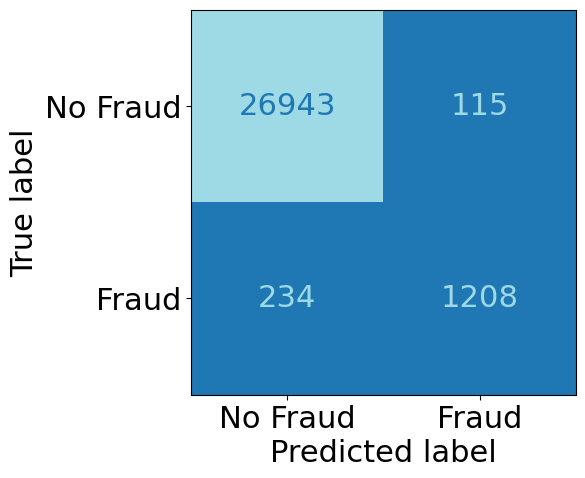
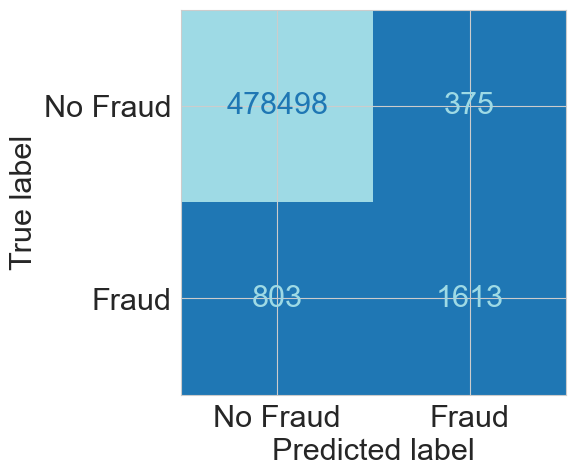
should be everything

diff --git a/myFunctions.py b/myFunctions.py
@@ -23,7 +23,7 @@ from sklearn.tree import DecisionTreeClassifier
 def test_fuction():
     st.write('this is only a test')
 
-def page_header(general_name, model):
+def page_header(general_name, model,**kwargs):
     model_name = type(model).__name__
     st.title(general_name)
     st.header(f'model: {model_name}')
@@ -32,14 +32,16 @@ def page_header(general_name, model):
     # Create the button
     if st.button('Click me to run the model',key='RunCode_button'):
         #dataset = myData()
-        df,X,y = data_cleanup()
-        split_scale_fit(model=model,X=X,y=y,test_size=.3)
-        graph_ROC_AUC(model=model,X=X,y=y,test_size=.3)
+        df = data_cleanup(**kwargs)
+        st.write('This is how the model was set-up:')
+        st.code(model)
+        split_scale_fit(model=model,df=df,**kwargs)
+        graph_ROC_AUC(model=model,df=df,**kwargs)
 
-        st.header('Balance the dataset')
-        df,X,y = data_cleanup(Fraud=5_000,Non_Fraud=90_000)
-        split_scale_fit(model=model,X=X,y=y,test_size=.3)
-        graph_ROC_AUC(model=model,X=X,y=y,test_size=.3)
+        #st.header('Balance the dataset')
+        #df,X,y = data_cleanup(Fraud=5_000,Non_Fraud=90_000)
+        #split_scale_fit(model=model,X=X,y=y,test_size=.3)
+        #graph_ROC_AUC(model=model,X=X,y=y,test_size=.3)
 
 def myData():
     dataset1 = pd.read_csv('./data/fraudTest.csv')
@@ -76,7 +78,7 @@ def o_encode(cat,df):
     return df
 
 
-def data_cleanup(balanced=False,**kwargs):
+def data_cleanup(**kwargs):
     df = myData()
     #look for numerical columns and only keep those:
     
@@ -108,7 +110,7 @@ def data_cleanup(balanced=False,**kwargs):
         df = balanced_dataframe(df,kwargs['Fraud'],kwargs['Non_Fraud'])
     X,y = get_X_y(df)
     
-    return df,X,y
+    return df
 
 
 
@@ -121,6 +123,8 @@ def balanced_dataframe(df,Fraud,Non_Fraud):
     non_fraud = non_fraud[:Non_Fraud]
     new_df = pd.concat([non_fraud,fraud.sample(Fraud)])
     balanced_df = new_df.sample(frac=1)
+    st.write('This model is run from a balanced dataset')
+    st.write(f'This dataset is balanced to: [Fraud:{Fraud}, Non_Fraud:{Non_Fraud}')
     return  balanced_df
 
 def get_X_y(df):
@@ -186,8 +190,32 @@ def show_metrics(model, test, pred):
 #         lst.append(a)
 #     return tuple(lst)
     
-def split_scale_fit(model,X,y,test_size):
-    X_train, X_test, y_train, y_test = train_test_split(X, y, test_size = test_size, random_state = 0)
+def split_scale_fit(model,df,**kwargs):
+    if 'fraud_test_size' in kwargs:
+        fraud_test_size=kwargs['fraud_test_size']
+        non_fraud_test_size=kwargs['non_fraud_test_size']
+
+        non_fraud = df[df['is_fraud']==0]
+        fraud = df[df['is_fraud']==1]
+
+        X,y = get_X_y(fraud)
+        X_train_fraud, X_test_fraud, y_train_fraud, y_test_fraud = train_test_split(X, y, test_size = fraud_test_size, random_state = 0)
+
+        X,y = get_X_y(non_fraud)
+        X_train_non_fraud, X_test_non_fraud, y_train_non_fraud, y_test_non_fraud = train_test_split(X, y, test_size = non_fraud_test_size, random_state = 0)
+
+        print(f'Training set balance= [Fraud:{len(X_train_fraud)}, Non_Fraud:{len(X_train_non_fraud)}]')
+        print(f'Testing set balance= [Fraud:{len(X_test_fraud)}, Non_Fraud:{len(X_test_non_fraud)}]')
+
+        X_train= pd.concat([X_train_fraud,X_train_non_fraud])
+        X_test= pd.concat([X_test_fraud,X_test_non_fraud])
+        y_train= pd.concat([y_train_fraud,y_train_non_fraud])
+        y_test= pd.concat([y_test_fraud,y_test_non_fraud])   
+    else:
+        X,y = get_X_y(df)
+        test_size=kwargs['test_size']
+        X_train, X_test, y_train, y_test = train_test_split(X, y, test_size = test_size)
+
     
     #scale X datasets:
     
@@ -210,9 +238,33 @@ def split_scale_fit(model,X,y,test_size):
     #y_pred_entiredataset = model.predict(X)
     #show_metrics(model,y, y_pred_entiredataset)
     
-def graph_ROC_AUC(model,X,y,test_size):
+def graph_ROC_AUC(model,df,**kwargs):
+    if 'fraud_test_size' in kwargs:
+        fraud_test_size=kwargs['fraud_test_size']
+        non_fraud_test_size=kwargs['non_fraud_test_size']
+
+        non_fraud = df[df['is_fraud']==0]
+        fraud = df[df['is_fraud']==1]
+
+        X,y = get_X_y(fraud)
+        X_train_fraud, X_test_fraud, y_train_fraud, y_test_fraud = train_test_split(X, y, test_size = fraud_test_size, random_state = 0)
+
+        X,y = get_X_y(non_fraud)
+        X_train_non_fraud, X_test_non_fraud, y_train_non_fraud, y_test_non_fraud = train_test_split(X, y, test_size = non_fraud_test_size, random_state = 0)
+
+        print(f'Training set balance= [Fraud:{len(X_train_fraud)}, Non_Fraud:{len(X_train_non_fraud)}]')
+        print(f'Testing set balance= [Fraud:{len(X_test_fraud)}, Non_Fraud:{len(X_test_non_fraud)}]')
+
+        X_train= pd.concat([X_train_fraud,X_train_non_fraud])
+        X_test= pd.concat([X_test_fraud,X_test_non_fraud])
+        y_train= pd.concat([y_train_fraud,y_train_non_fraud])
+        y_test= pd.concat([y_test_fraud,y_test_non_fraud])   
+    else:
+        X,y = get_X_y(df)
+        test_size=kwargs['test_size']
+        X_train, X_test, y_train, y_test = train_test_split(X, y, test_size = test_size)
+
     
-    X_train, X_test, y_train, y_test = train_test_split(X, y, test_size = test_size, random_state = 0)
     #scale X datasets:
     model_name = type(model).__name__
     fn = Path(f'output/{model_name}_ROC')

diff --git a/pages/04_Logistic Regression.py b/pages/04_Logistic Regression.py
@@ -5,7 +5,51 @@ import myFunctions as my
 from sklearn.linear_model import LogisticRegression
 
 
-model =  logreg = LogisticRegression(max_iter=200)
+model =  logreg = LogisticRegression(C= 0.1, penalty= 'l2')
 general_name = 'Logistic Regression'
 
-my.page_header(general_name,model)
+my.page_header(general_name,model,fraud_test_size=.42,non_fraud_test_size=.96)
+
+st.write('the parameters for the above model were optimized using GridSearchCV. The code for that process can be seen below.  Ultimately the best parameters were: C= 0.1, penalty= l2')
+
+
+code= '''
+# define the scoring function
+scoring = make_scorer(precision_score, pos_label=1)
+
+# Generate data:
+X_train, X_test, y_train, y_test = custom_train_test_split(df=dataset)
+
+# Define the hyperparameter grid to search over
+param_grid = {'C': [0.1, 1.0, 10.0],
+              'penalty': ['l1', 'l2']}
+
+# Define the model
+clf = LogisticRegression()
+
+
+# define the scoring function
+scoring = make_scorer(precision_score, pos_label=1)
+
+# Define the GridSearchCV object with precision score as the metric
+grid_search = GridSearchCV(clf, param_grid, cv=5, scoring=scoring)
+
+# Fit the GridSearchCV object to the training data
+grid_search.fit(X_train, y_train)
+
+# Get the best hyperparameters and the corresponding score
+best_params = grid_search.best_params_
+best_score = grid_search.best_score_
+
+print("Best hyperparameters:", best_params)
+print("Best precision score:", best_score)
+
+# Fit the best estimator on the entire training set
+best_clf = grid_search.best_estimator_
+best_clf.fit(X_train, y_train)
+
+# Evaluate the performance of the best estimator on the test set
+score = best_clf.score(X_test, y_test)
+print("Test set score:", score)
+'''
+st.code(code)

diff --git a/pages/05_Decision Tree.py b/pages/05_Decision Tree.py
@@ -5,9 +5,9 @@ import myFunctions as my
 from sklearn.tree import DecisionTreeClassifier
 
 
-model =  DecisionTreeClassifier(splitter= 'best', min_samples_split= 20, min_samples_leaf=40, max_depth=2, criterion= 'gini',random_state=0, class_weight='balanced') 
-
+#model =  DecisionTreeClassifier(splitter= 'best', min_samples_split= 20, min_samples_leaf=40, max_depth=2, criterion= 'gini',random_state=0, class_weight='balanced') 
+model = DecisionTreeClassifier(max_depth=8,min_samples_leaf=2,min_samples_split=5)
 
 general_name = 'Decision Tree'
 
-my.page_header(general_name,model)
+my.page_header(general_name,model,fraud_test_size=.55,non_fraud_test_size=.2)

diff --git a/pages/03_MLP.py b/pages/03_MLP.py
@@ -7,12 +7,14 @@ from sklearn.neural_network import MLPClassifier
 from sklearn.linear_model import LogisticRegression
 from sklearn.tree import DecisionTreeClassifier
 
-model = MLPClassifier(max_iter=1000, alpha=1, random_state=0)
+param = {'activation': 'relu', 'alpha': 0.0001, 'hidden_layer_sizes': (10,), 'solver': 'sgd'}
+
+model = MLPClassifier(max_iter=1000, random_state=0,**param)
 
 general_name = 'Multi layer perceptron (MLP)'
 #model_name = type(model).__name__
 
 
-my.page_header(general_name,model)
+my.page_header(general_name,model,fraud_test_size=.4293,non_fraud_test_size=.96)
 
 

diff --git a/pages/11_Results.py b/pages/11_Results.py
@@ -6,10 +6,23 @@ from pathlib import Path
 
 file_name = Path('data/Metrics.csv')
 df_Metrics=pd.read_csv(file_name, index_col=0)
+
+###
+cohen_kappa_row = df_Metrics.loc['Cohen Kappa']
+
+# Sort the values in ascending or descending order
+sorted_row = cohen_kappa_row.sort_values(ascending=False)  # or True for ascending order
+
+# Reorder the columns based on the sorted row
+df_Metrics = df_Metrics[sorted_row.index]
+
+
+###
 cols = list(df_Metrics.keys())
 
 st.header('Metrics for all models:')
 st.table(df_Metrics)
+
 #### GRAPH THE RESULTS ###
 
 

diff --git a/pages/06_Bagging_Classifier.py b/pages/06_Bagging_Classifier.py
@@ -17,7 +17,7 @@ best_params = {'max_features': 1.0, 'max_samples': .5, 'n_estimators': 100}
 model.set_params(**best_params)
 
 
-my.page_header(general_name,model)
+my.page_header(general_name,model,test_size=.3)
 
 st.write('the parameters for the above model were optimized using GridSearchCV. The code for that process can be seen below.  Ultimately the best parameters were: max_features= 1.0, max_samples=1.0, n_estimators=0')
 

diff --git a/pages/02_Naive Bayes.py b/pages/02_Naive Bayes.py
@@ -5,7 +5,9 @@ import myFunctions as my
 from sklearn.naive_bayes import GaussianNB
 
 
-model = GaussianNB()
+model = GaussianNB(var_smoothing= 1e-05)
+
+
 general_name = 'Naive Bayes'
 
-my.page_header(general_name,model)
+my.page_header(general_name,model,fraud_test_size=.8,non_fraud_test_size=.04)
